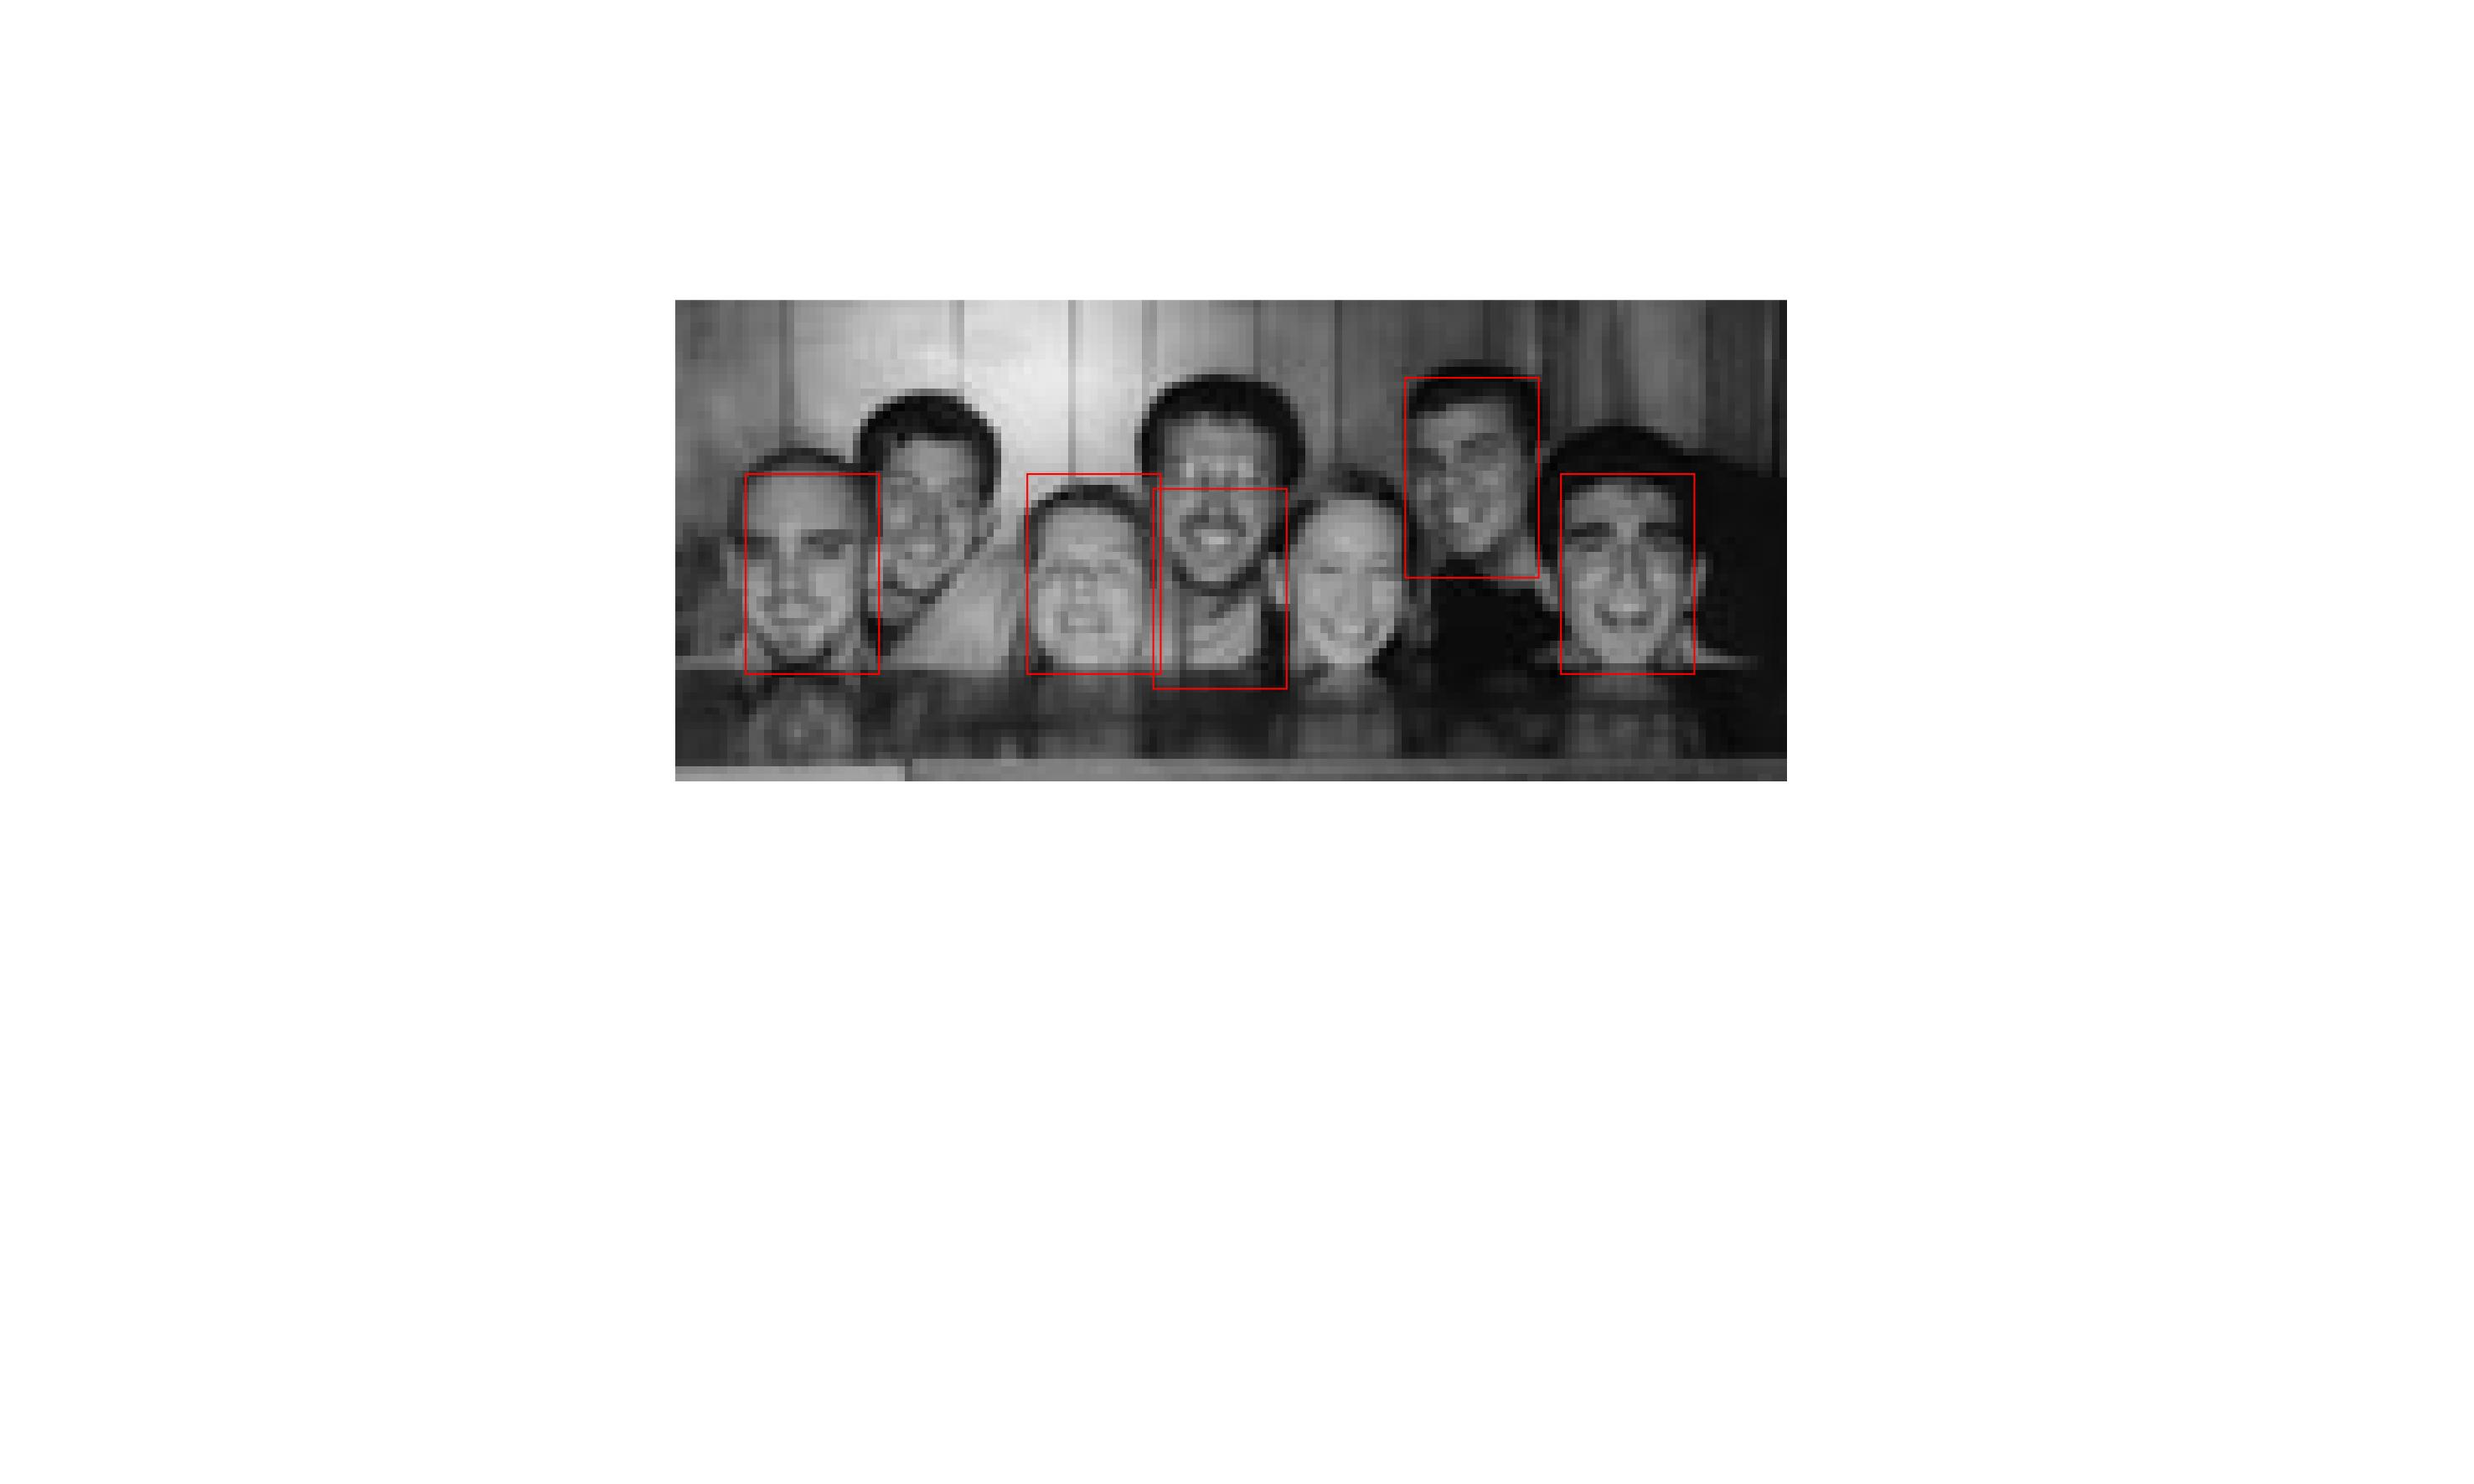
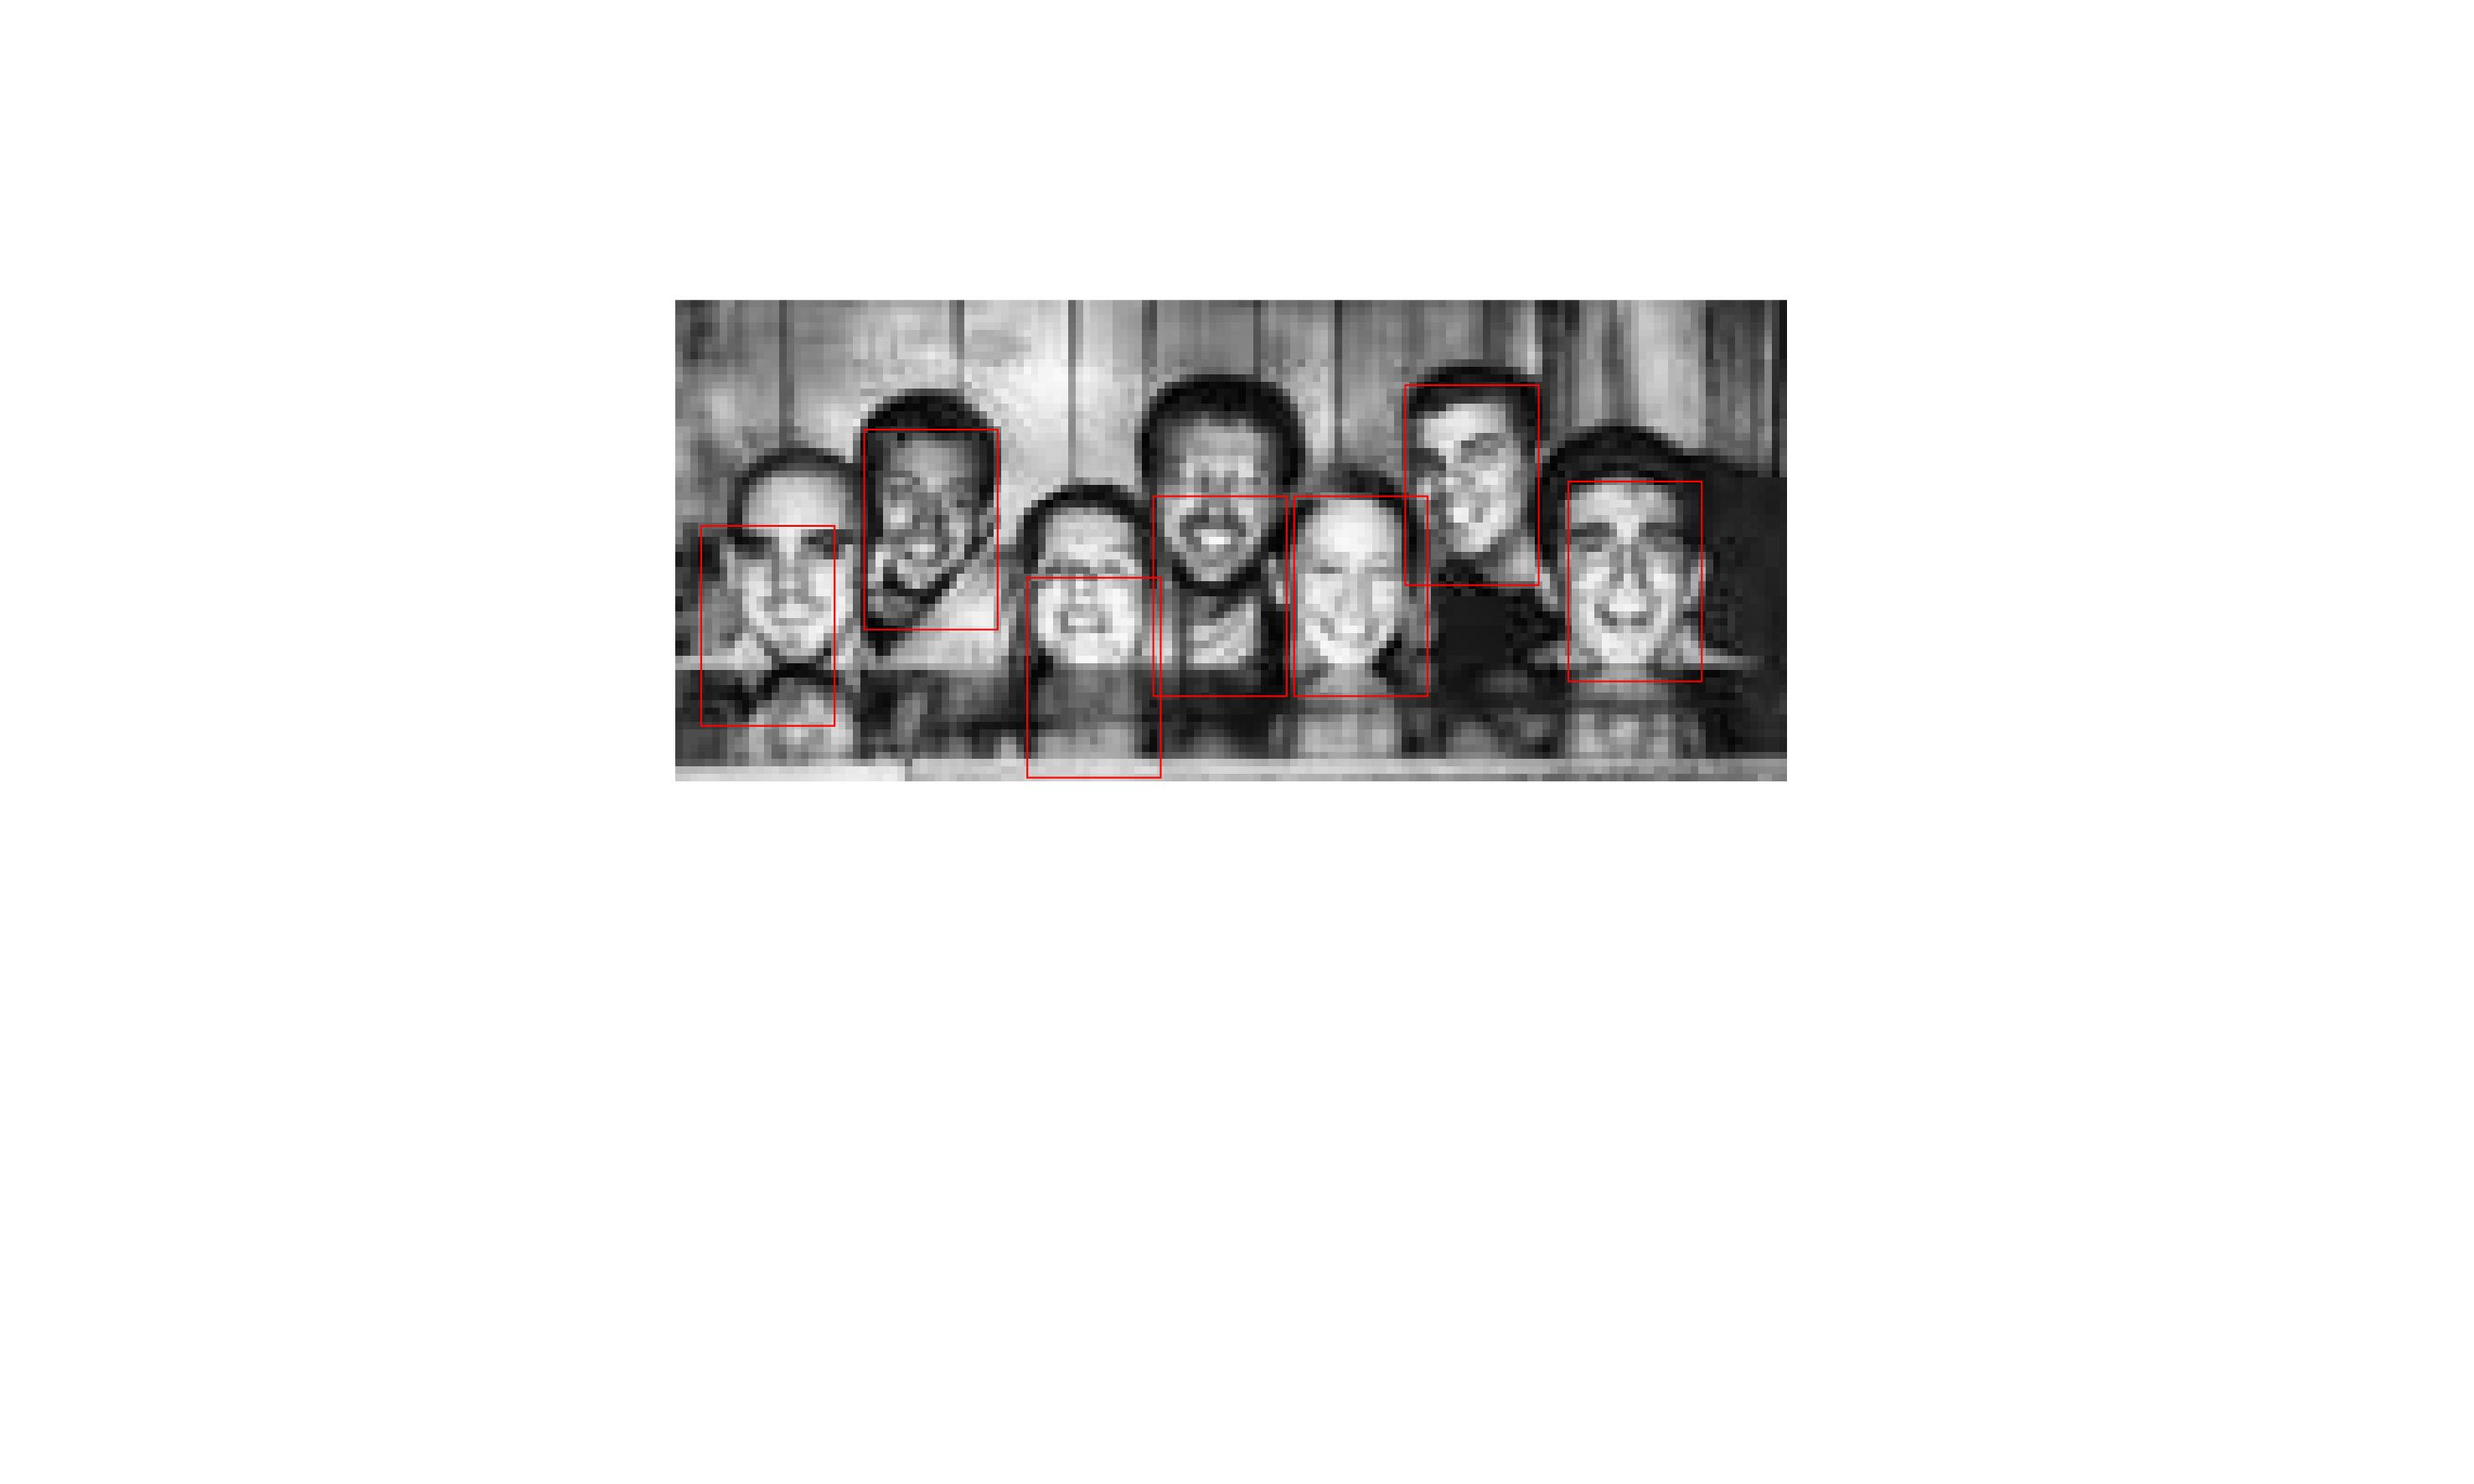
Added basic contrast enhancement to the hog_gab_detector

Changed region(s): [[0.2492, 0.1862, 0.7477, 0.5277]]

diff --git a/code/hog_gab_SVM_Detector.m b/code/hog_gab_SVM_Detector.m
@@ -5,6 +5,7 @@ close all
 addpath('functions');
 addpath('functions/SVM-KM');
 addpath('functions/Detectors');
+addpath('dataset');
 
 load('gabor_SVM.mat'); % Model name is gaborSVMModel
 load('hog_SVM.mat'); % Model name is hogSVMModel
@@ -14,7 +15,6 @@ images{1} = imread('images/im1.jpg');
 images{2} = imread('images/im2.jpg');
 images{3} = imread('images/im3.jpg');
 images{4} = imread('images/im4.jpg');
-images{5} = imread('images/im1.jpg');
 
 prefix = "results/hog_gab_SVM_im";
 suffix = ".jpg";
@@ -23,6 +23,10 @@ for iNumber = 1:5
     fprintf("Starting image number %d\n", iNumber);
     figure(iNumber);
     thisImg = cell2mat(images(iNumber));
+    
+    % Performs contrast enhancement using matlabs adapthisteq function
+    thisImg = adapthisteq(thisImg);
+    
     imshow(thisImg); % Shows Image
 
     % Gets boundingboxes for the test image, this should indicate a face
